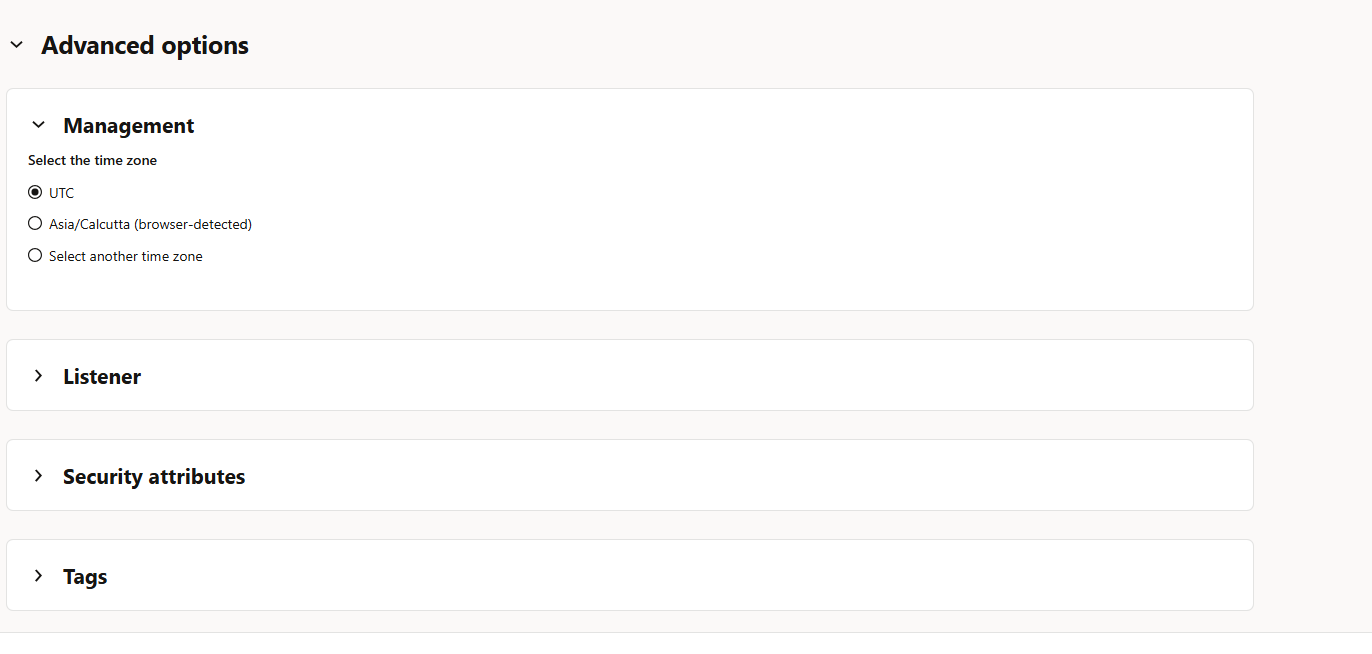
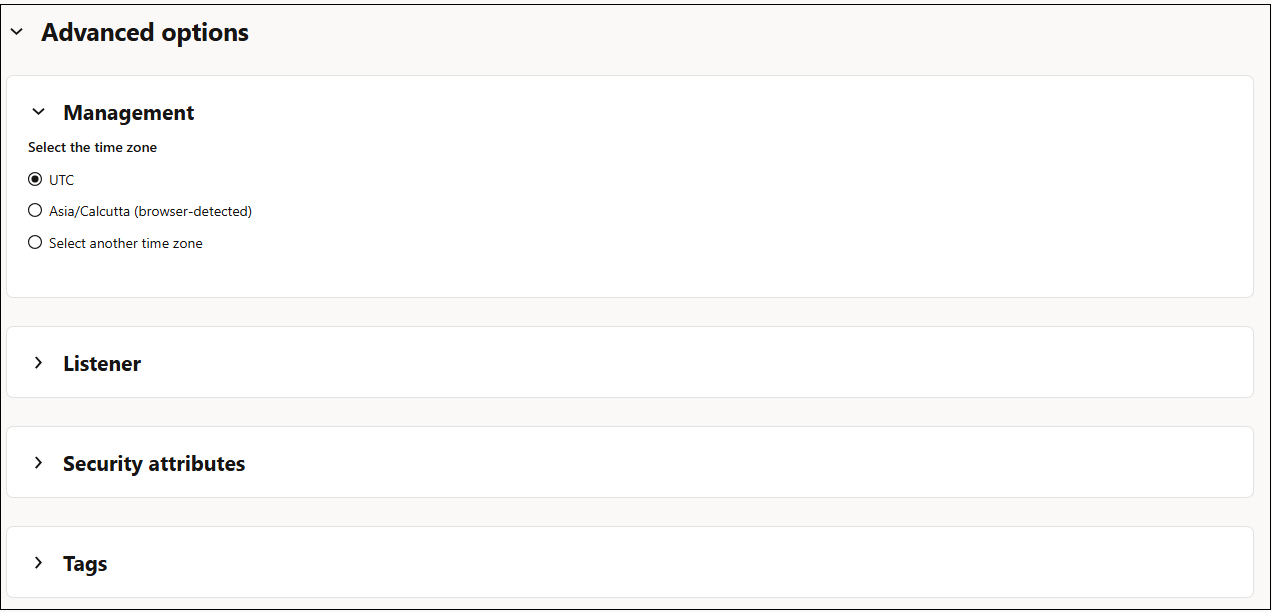
update screenshots

diff --git a/adb-prov-cloud-vmc/adb-prov-cloud-vmc.md b/adb-prov-cloud-vmc/adb-prov-cloud-vmc.md
@@ -14,7 +14,7 @@ Estimated Time: 20 minutes
 - Create an Autonomous VM Cluster on a pre-provisioned Exadata Infrastructure.
 
 ### Required Artifacts
-- An Oracle Cloud Infrastructure account with a pre-provisioned instance of Exadata Infrastructure
+- An Oracle Cloud Infrastructure account with a pre-provisioned instance of Exadata Infrastructure.
 
 Watch the video below for step by step directions on creating an Autonomous VM Cluster on your Exadata Infrastructure.
 
@@ -26,7 +26,7 @@ Watch the video below for step by step directions on creating an Autonomous VM C
 - Navigate to the **Oracle AI Database** option in the top left hamburger menu from your OCI home screen. Click **Autonomous AI Database on Dedicated Infrastructure**.
 - Select **Autonomous Exadata VM Cluster** from the menu on the left. Click **Create Autonomous Exadata VM Cluster**.
 
-      ![create-avmc-pc1](./images/create-avmc-pc1.png " ")
+          ![create-avmc-pc1](./images/create-avmc-pc1.png " ")
 
 - Perform the following tasks on the **Create Autonomous Exadata VM Cluster** page.
 
@@ -34,7 +34,7 @@ Watch the video below for step by step directions on creating an Autonomous VM C
 
     2. **Select the Exadata Infrastructure to host the new Autonomous Exadata VM Cluster.** Change the compartment if your Exadata Infrastructure was created in a different compartment than the one shown.
    
-      ![create-avmc-pc1](./images/create-avmc-pc2.png " ")
+          ![create-avmc-pc1](./images/create-avmc-pc2.png " ")
 
     3. **Configure the Autonomous VM Cluster Resources:**
 
@@ -69,7 +69,7 @@ Watch the video below for step by step directions on creating an Autonomous VM C
     
     5. **Configure Automatic Maintenance:** Optionally, configure the automatic maintenance schedule by clicking Modify Schedule. You can then change the maintenance schedule by specifying quarter, week, day and time you would like to schedule automatic maintenance for your Autonomous Exadata VM Cluster.
 
-      ![create-avmc-pc1](./images/create-avmc-pc5a.png " ")
+          ![create-avmc-pc1](./images/create-avmc-pc5a.png " ")
 
     6. **Choose the license type** you wish to use.
             - Bring your own license: If you choose this option, make sure you have proper entitlements to use for new service instances that you create.
@@ -77,7 +77,7 @@ Watch the video below for step by step directions on creating an Autonomous VM C
     
     7. In the advanced options, you may pick a different timezone than the default UTC. You can optionally add a security attribute to control access for your AVMC resource using Zero Trust Packet Routing (ZPR) policies. If you want to use tags, add tags by selecting a Tag Namespace, Tag Key, and Tag Value.
 
-      ![create-avmc-pc1](./images/create-avmc-pc6.png " ")
+          ![create-avmc-pc1](./images/create-avmc-pc6.png " ")
 
 - Click **Create Autonomous Exadata VM Cluster**.
 
